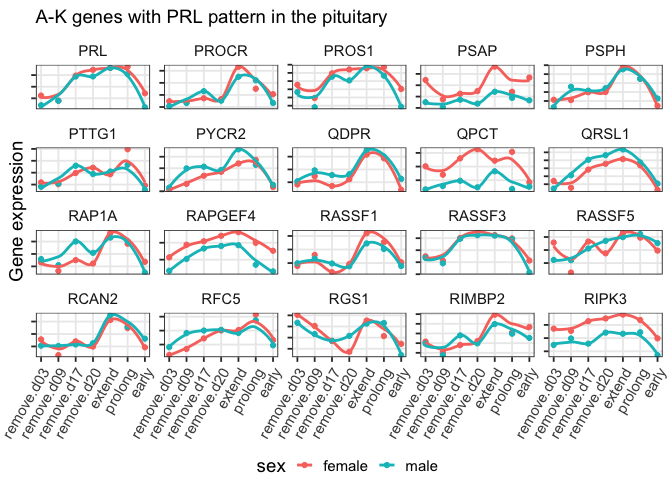
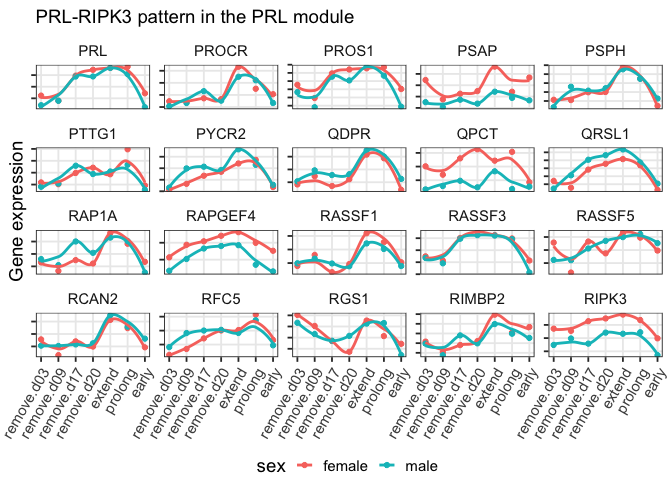
figure titles

Changed region(s): [[0.0625, 0.0, 0.5938, 0.0625]]

diff --git a/analysis/04_DESeq2_sexes_manipulate.md b/analysis/04_DESeq2_sexes_manipulate.md
@@ -472,6 +472,6 @@ genes that were in the WGCNA module with PRL twice!
 ![](../figures/manipulation/sharedmodule-1.png)
 
     prl36 <-  PRL_manipulated$entrezid[252:271]
-    plotWGCNAcandidatesManip(vsd.pit, prl36, colDataPit, "A-K genes with PRL pattern in the pituitary")
+    plotWGCNAcandidatesManip(vsd.pit, prl36, colDataPit, "PRL-RIPK3 pattern in the PRL module")
 
 ![](../figures/manipulation/sharedmodule-2.png)
